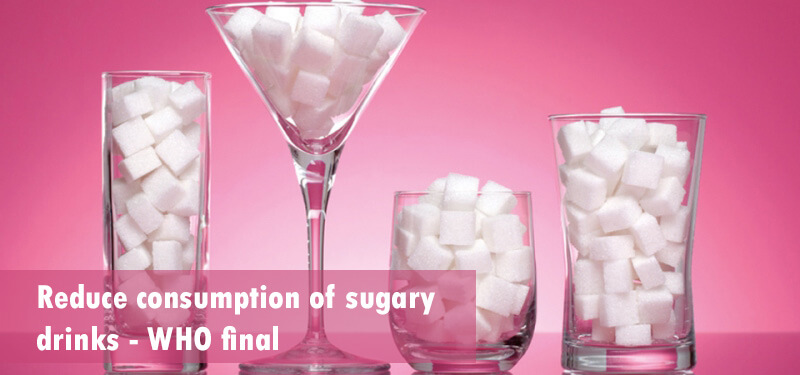
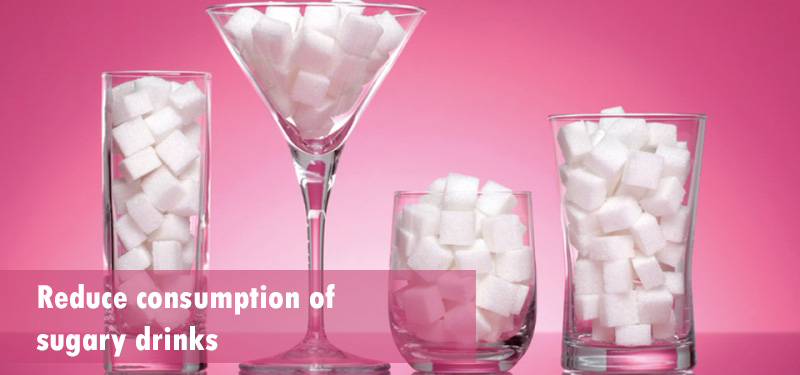
article changes

Changed region(s): [[0.0312, 0.8507, 0.375, 0.968], [0.4062, 0.7627, 0.5625, 0.8507]]

diff --git a/CyberHealth/views/common/healthy-tips.html b/CyberHealth/views/common/healthy-tips.html
@@ -1,1 +1,1 @@
-<div id="content-page" ng-cloak class="ng-cloak"><div class="container"><div class="row blog-page"><div class="col-md-12 col-lg-12 col-sm-12"><h4 class="classic-title"><span>Healthy Tips</span></h4></div><div class="col-md-8 col-lg-8 col-sm-8 blog-box"><div id="1" class="blog-post image-post"><div class="post-head"><img alt="" src="../../images/healthyTips/tips-1.jpg" width="100%" height="auto"></div><div class="post-content1"><div class="post-type"><i class="fa fa-picture-o"></i></div><h2><a href="#healthy-tips-1">Prevalence of Obesity</a></h2><ul class="post-meta remove-style"><li>By <a href="">Cyber Health</a></li><li>February 18, 2016</li></ul><p>Obesity is recognized as a chronic disease and one of the major healthcare challenges facing us today. Obesity is considered to result from an imbalance between energy uptake and energy expenditure.</p><a class="main-button" href="#healthy-tips-1">Read More <i class="fa fa-angle-right"></i></a></div></div><div id="2" class="blog-post image-post"><div class="post-head"><img alt="" src="../../images/healthyTips/tips-2.jpg" width="100%" height="auto"></div><div class="post-content1"><div class="post-type"><i class="fa fa-picture-o"></i></div><h2><a href="#healthy-tips-2">Prevalence of Diabetes in United States</a></h2><ul class="post-meta remove-style"><li>By <a href="">Cyber Health</a></li><li>February 18, 2016</li></ul><p>Diabetes is a group of diseases characterized by high blood sugar. When a person has diabetes, the body either does not make enough insulin or is unable to use its own insulin well.</p><a class="main-button" href="#healthy-tips-2">Read More <i class="fa fa-angle-right"></i></a></div></div><div id="3" class="blog-post image-post"><div class="post-head"><img alt="" src="../../images/healthyTips/tips-3.jpg" width="100%" height="auto"></div><div class="post-content1"><div class="post-type"><i class="fa fa-picture-o"></i></div><h2><a href="#healthy-tips-3">Global report on Diabetes</a></h2><ul class="post-meta remove-style"><li>By <a href="">Cyber Health</a></li><li>February 18, 2016</li></ul><p>Diabetes is a chronic condition in which sugars build up in the blood beyond a normal level. Healthy body uses the hormone insulin to move sugars (“glucose”) into the cells. In diabetes body either cannot produce enough insulin or is resistant to its own insulin, so excess sugars can’t move into the cells and, instead, stay in the blood.</p><a class="main-button" href="#healthy-tips-3">Read More <i class="fa fa-angle-right"></i></a></div></div><div id="4" class="blog-post image-post"><div class="post-head"><img alt="" src="../../images/healthyTips/tips-4.jpg" width="100%" height="auto"></div><div class="post-content1"><div class="post-type"><i class="fa fa-picture-o"></i></div><h2><a href="#healthy-tips-4">Do you know how much sugar is in your favourite drink?</a></h2><ul class="post-meta remove-style"><li>By <a href="">Cyber Health</a></li><li>February 18, 2016</li></ul><p>Sugar is hidden in many of our favourite drinks. A new WHO guideline recommends adults and children reduce their daily intake of free sugars to less than 10% of their total energy intake. A further reduction to below 5% or roughly 25 grams (6 teaspoons) per day would provide additional health benefits (WHO, 2015).</p><a class="main-button" href="#healthy-tips-4">Read More <i class="fa fa-angle-right"></i></a></div></div><div id="5" class="blog-post image-post"><div class="post-head"><img alt="" src="../../images/healthyTips/tips-5.jpg" width="100%" height="auto"></div><div class="post-content1"><div class="post-type"><i class="fa fa-picture-o"></i></div><h2><a href="#healthy-tips-5">Reduce consumption of sugary drinks - WHO final</a></h2><ul class="post-meta remove-style"><li>By <a href="">Cyber Health</a></li><li>February 18, 2016</li></ul><p>Sugar-sweetened beverage consumption is high in many parts of the world and is suggestive of poor dietary quality, as sugar-sweetened beverages contain added sugars such as sucrose or fructose, often in large amounts, which contribute to the overall energy density of diets.</p><a class="main-button" href="#healthy-tips-5">Read More <i class="fa fa-angle-right"></i></a></div></div><div id="6" class="blog-post image-post"><div class="post-head"><img alt="" src="../../images/healthyTips/tips-6.jpg" width="100%" height="auto"></div><div class="post-content1"><div class="post-type"><i class="fa fa-picture-o"></i></div><h2><a href="#healthy-tips-6">Sugar Sweetened Beverages (SSB)</a></h2><ul class="post-meta remove-style"><li>By <a href="">Cyber Health</a></li><li>February 18, 2016</li></ul><p>The obesity epidemic in the United States continues to increase. Two out of three adults and one out of three children in the United States are overweight or obese. Increase in overweight among young children is of significant concern.</p><a class="main-button" href="#healthy-tips-6">Read More <i class="fa fa-angle-right"></i></a></div></div><div id="7" class="blog-post image-post"><div class="post-head"><img alt="" src="../../images/healthyTips/tips-7.jpg" width="100%" height="auto"></div><div class="post-content1"><div class="post-type"><i class="fa fa-picture-o"></i></div><h2><a href="#healthy-tips-7">Don’t Drink Sugary Drinks</a></h2><ul class="post-meta remove-style"><li>By <a href="">Cyber Health</a></li><li>February 18, 2016</li></ul><p>What you drink makes a bigger difference to your health than you think. Drinks like soda, sports drinks and energy drinks are loaded with sugar and are empty calories. Sugary beverages are the single largest source of calories in the American Diet, providing an average of about seven percent of total calories per person (HHS/USDA, 2010).</p><a class="main-button" href="#healthy-tips-7">Read More <i class="fa fa-angle-right"></i></a></div></div><div id="8" class="blog-post image-post"><div class="post-head"><img alt="" src="../../images/healthyTips/tips-8.jpg" width="100%" height="auto"></div><div class="post-content1"><div class="post-type"><i class="fa fa-picture-o"></i></div><h2><a href="#healthy-tips-8">It’s time to tax sugary drinks</a></h2><ul class="post-meta remove-style"><li>By <a href="">Cyber Health</a></li><li>February 18, 2016</li></ul><p>Sugary drinks are a major contributor to the obesity epidemic. Increased consumption of soft drinks is associated with increased energy (calorie) intake. Habitual consumption of sugar sweetened beverages was associated with a greater incidence of type 2 diabetes, independently of adiposity.</p><a class="main-button" href="#healthy-tips-8">Read More <i class="fa fa-angle-right"></i></a></div></div><div id="9" class="blog-post image-post"><div class="post-head"><img alt="" src="../../images/healthyTips/tips-9.jpg" width="100%" height="auto"></div><div class="post-content1"><div class="post-type"><i class="fa fa-picture-o"></i></div><h2><a href="#healthy-tips-9">Dietary Guidelines for healthy Eating</a></h2><ul class="post-meta remove-style"><li>By <a href="">Cyber Health</a></li><li>February 18, 2016</li></ul><p>According to the World Health Organization (WHO), of the 57 million global deaths in 2008, 36 million, or 63%, were due to non-communicable diseases (NCDs), principally cardiovascular diseases, diabetes, cancers and chronic respiratory diseases (WHO, 2011a). Nearly 80% of these deaths occur in low-and middle-income countries.</p><a class="main-button" href="#healthy-tips-9">Read More <i class="fa fa-angle-right"></i></a></div></div><div id="10" class="blog-post image-post"><div class="post-head"><img alt="" src="../../images/healthyTips/tips-10.jpg" width="100%" height="auto"></div><div class="post-content1"><div class="post-type"><i class="fa fa-picture-o"></i></div><h2><a href="#healthy-tips-10">Physical activity</a></h2><ul class="post-meta remove-style"><li>By <a href="">Cyber Health</a></li><li>February 18, 2016</li></ul><p>Physical inactivity is the fourth leading risk factor for noncommunicable disease worldwide and is estimated to cause between 3.2 and 5 million deaths globally per year. Globally, physical inactivity is estimated to cause around 27% of diabetes, 30% of ischaemic heart disease and 21%–25% of breast and colon cancer.</p><a class="main-button" href="#healthy-tips-10">Read More <i class="fa fa-angle-right"></i></a></div></div><div id="11" class="blog-post image-post"><div class="post-head"><img alt="" src="../../images/healthyTips/tips-11.jpg" width="100%" height="auto"></div><div class="post-content1"><div class="post-type"><i class="fa fa-picture-o"></i></div><h2><a href="#healthy-tips-11">Eat more Fruits and Vegetables</a></h2><ul class="post-meta remove-style"><li>By <a href="">Cyber Health</a></li><li>February 18, 2016</li></ul><p>Vegetables and fruits are an important part of a healthy diet. No single fruit or vegetable provides all of the nutrients you need to be healthy. Eat plenty every day. Low intake of fruit and vegetables is estimated to cause about 19% of gastrointestinal cancer, and about 31% of ischaemic heart disease and 11% of stroke worldwide.</p><a class="main-button" href="#healthy-tips-11">Read More <i class="fa fa-angle-right"></i></a></div></div><div id="12" class="blog-post image-post"><div class="post-head"><img alt="" src="../../images/healthyTips/tips-12.jpg" width="100%" height="auto"></div><div class="post-content1"><div class="post-type"><i class="fa fa-picture-o"></i></div><h2><a href="#healthy-tips-12">It’s not too late to prevent diabetes</a></h2><ul class="post-meta remove-style"><li>By <a href="">Cyber Health</a></li><li>February 18, 2016</li></ul><p>Diabetes is one of the 4 main noncommunicable diseases and together with cancer, heart attacks and strokes and lung disease, is responsible for 1.7 million deaths in the Region every year. Diabetes is an independent risk factor for cardiovascular disease. Adults with diabetes have a 2-4 times higher risk for heart disease or stroke.</p><a class="main-button" href="#healthy-tips-12">Read More <i class="fa fa-angle-right"></i></a></div></div><div id="13" class="blog-post image-post"><div class="post-head"><img alt="" src="../../images/healthyTips/tips-13.jpg" width="100%" height="auto"></div><div class="post-content1"><div class="post-type"><i class="fa fa-picture-o"></i></div><h2><a href="#healthy-tips-13">Diabetes in Asia</a></h2><ul class="post-meta remove-style"><li>By <a href="">Cyber Health</a></li><li>February 18, 2016</li></ul><p>There are 415 million people with diabetes in the world. There will be 642 million people with diabetes in 2040 (International Diabetes Federation, 2015). 60% of diabetics in the world live in Asia (Hu , 2011). 113.9 million adults have diabetes in China, 11.6% of the adult population (Xu et al., 2013).</p><a class="main-button" href="#healthy-tips-13">Read More <i class="fa fa-angle-right"></i></a></div></div><div id="14" class="blog-post image-post"><div class="post-head"><img alt="" src="../../images/healthyTips/tips-14.jpg" width="100%" height="auto"></div><div class="post-content1"><div class="post-type"><i class="fa fa-picture-o"></i></div><h2><a href="#healthy-tips-14">Whole Grains</a></h2><ul class="post-meta remove-style"><li>By <a href="">Cyber Health</a></li><li>February 18, 2016</li></ul><p>Whole grains are the entire seed of a plant. This seed (kernel) is made up of three key edible parts – the bran, the germ, and the endosperm. Whole grains contain all three parts of the kernel. Whole grains—brown rice, steel cut oats, and quinoa—are composed of three edible parts, the fiber-filled bran, the vitamin-packed germ, and the starchy endosperm.</p><a class="main-button" href="#healthy-tips-14">Read More <i class="fa fa-angle-right"></i></a></div></div></div><div class="col-md-4 col-lg-4 col-sm-4 sidebar right-sidebar"><div class="widget widget-popular-posts"><h4>Popular Tips <span class="head-line"></span></h4><ul class="remove-style"><li><div class="widget-thumb"><a href="" ng-click="focusToIndividualTips(1)"><img src="../../images/healthyTips/tips-1-small.jpg" alt="" width="65" height="65"></a></div><div class="widget-content"><h5><a href="" ng-click="focusToIndividualTips(1)">Prevalence of Obesity</a></h5><span>Feb 18,2016</span></div><div class="clearfix"></div></li><li><div class="widget-thumb"><a href="" ng-click="focusToIndividualTips(2)"><img src="../../images/healthyTips/tips-2-small.jpg" alt="" width="65" height="65"></a></div><div class="widget-content"><h5><a href="" ng-click="focusToIndividualTips(2)">Prevalence of Diabetes in United States</a></h5><span>Feb 18,2016</span></div><div class="clearfix"></div></li><li><div class="widget-thumb"><a href="" ng-click="focusToIndividualTips(3)"><img src="../../images/healthyTips/tips-3-small.jpg" alt="" width="65" height="65"></a></div><div class="widget-content"><h5><a href="" ng-click="focusToIndividualTips(3)">Global report on Diabetes</a></h5><span>Feb 18,2016</span></div><div class="clearfix"></div></li><li><div class="widget-thumb"><a href="" ng-click="focusToIndividualTips(4)"><img src="../../images/healthyTips/tips-4-small.jpg" alt="" width="65" height="65"></a></div><div class="widget-content"><h5><a href="" ng-click="focusToIndividualTips(4)">Do you know how much sugar is in your favourite drink?</a></h5><span>Feb 18,2016</span></div><div class="clearfix"></div></li><li><div class="widget-thumb"><a href="" ng-click="focusToIndividualTips(5)"><img src="../../images/healthyTips/tips-5-small.jpg" alt="" width="65" height="65"></a></div><div class="widget-content"><h5><a href="" ng-click="focusToIndividualTips(5)">Reduce consumption of sugary drinks - WHO final</a></h5><span>Feb 18,2016</span></div><div class="clearfix"></div></li><li><div class="widget-thumb"><a href="" ng-click="focusToIndividualTips(6)"><img src="../../images/healthyTips/tips-6-small.jpg" alt="" width="65" height="65"></a></div><div class="widget-content"><h5><a href="" ng-click="focusToIndividualTips(6)">Sugar Sweetened Beverages (SSB)</a></h5><span>Feb 18,2016</span></div><div class="clearfix"></div></li><li><div class="widget-thumb"><a href="" ng-click="focusToIndividualTips(7)"><img src="../../images/healthyTips/tips-7-small.jpg" alt="" width="65" height="65"></a></div><div class="widget-content"><h5><a href="" ng-click="focusToIndividualTips(7)">Don’t Drink Sugary Drinks</a></h5><span>Feb 18,2016</span></div><div class="clearfix"></div></li><li><div class="widget-thumb"><a href="" ng-click="focusToIndividualTips(8)"><img src="../../images/healthyTips/tips-8-small.jpg" alt="" width="65" height="65"></a></div><div class="widget-content"><h5><a href="" ng-click="focusToIndividualTips(8)">It’s time to tax sugary drinks</a></h5><span>Feb 18,2016</span></div><div class="clearfix"></div></li><li><div class="widget-thumb"><a href="" ng-click="focusToIndividualTips(9)"><img src="../../images/healthyTips/tips-9-small.jpg" alt="" width="65" height="65"></a></div><div class="widget-content"><h5><a href="" ng-click="focusToIndividualTips(9)">Dietary Guidelines for healthy Eating</a></h5><span>Feb 18,2016</span></div><div class="clearfix"></div></li><li><div class="widget-thumb"><a href="" ng-click="focusToIndividualTips(10)"><img src="../../images/healthyTips/tips-10-small.jpg" alt="" width="65" height="65"></a></div><div class="widget-content"><h5><a href="" ng-click="focusToIndividualTips(10)">Physical activity</a></h5><span>Feb 18,2016</span></div><div class="clearfix"></div></li><li><div class="widget-thumb"><a href="" ng-click="focusToIndividualTips(11)"><img src="../../images/healthyTips/tips-11-small.jpg" alt="" width="65" height="65"></a></div><div class="widget-content"><h5><a href="" ng-click="focusToIndividualTips(11)">Eat more Fruits and Vegetables</a></h5><span>Feb 18,2016</span></div><div class="clearfix"></div></li><li><div class="widget-thumb"><a href="" ng-click="focusToIndividualTips(12)"><img src="../../images/healthyTips/tips-12-small.jpg" alt="" width="65" height="65"></a></div><div class="widget-content"><h5><a href="" ng-click="focusToIndividualTips(12)">It’s not too late to prevent diabetes</a></h5><span>Feb 18,2016</span></div><div class="clearfix"></div></li><li><div class="widget-thumb"><a href="" ng-click="focusToIndividualTips(13)"><img src="../../images/healthyTips/tips-13-small.jpg" alt="" width="65" height="65"></a></div><div class="widget-content"><h5><a href="" ng-click="focusToIndividualTips(13)">Diabetes in Asia</a></h5><span>Feb 18,2016</span></div><div class="clearfix"></div></li><li><div class="widget-thumb"><a href="" ng-click="focusToIndividualTips(14)"><img src="../../images/healthyTips/tips-14-small.jpg" alt="" width="65" height="65"></a></div><div class="widget-content"><h5><a href="" ng-click="focusToIndividualTips(14)">Whole Grains</a></h5><span>Feb 18,2016</span></div><div class="clearfix"></div></li></ul></div></div></div></div></div><script type="text/javascript" src="../../js/script.js"></script>
+<div id="content-page" ng-cloak class="ng-cloak"><div class="container"><div class="row blog-page"><div class="col-md-12 col-lg-12 col-sm-12"><h4 class="classic-title"><span>Healthy Tips</span></h4></div><div class="col-md-8 col-lg-8 col-sm-8 blog-box"><div id="1" class="blog-post image-post"><div class="post-head"><img alt="" src="../../images/healthyTips/tips-1.jpg" width="100%" height="auto"></div><div class="post-content1"><div class="post-type"><i class="fa fa-picture-o"></i></div><h2><a href="#healthy-tips-1">Prevalence of Obesity</a></h2><ul class="post-meta remove-style"><li>By <a href="">Cyber Health</a></li><li>February 18, 2016</li></ul><p>Obesity is recognized as a chronic disease and one of the major healthcare challenges facing us today. Obesity is considered to result from an imbalance between energy uptake and energy expenditure.</p><a class="main-button" href="#healthy-tips-1">Read More <i class="fa fa-angle-right"></i></a></div></div><div id="2" class="blog-post image-post"><div class="post-head"><img alt="" src="../../images/healthyTips/tips-2.jpg" width="100%" height="auto"></div><div class="post-content1"><div class="post-type"><i class="fa fa-picture-o"></i></div><h2><a href="#healthy-tips-2">Prevalence of Diabetes in United States</a></h2><ul class="post-meta remove-style"><li>By <a href="">Cyber Health</a></li><li>February 18, 2016</li></ul><p>Diabetes is a group of diseases characterized by high blood sugar. When a person has diabetes, the body either does not make enough insulin or is unable to use its own insulin well.</p><a class="main-button" href="#healthy-tips-2">Read More <i class="fa fa-angle-right"></i></a></div></div><div id="3" class="blog-post image-post"><div class="post-head"><img alt="" src="../../images/healthyTips/tips-3.jpg" width="100%" height="auto"></div><div class="post-content1"><div class="post-type"><i class="fa fa-picture-o"></i></div><h2><a href="#healthy-tips-3">Global report on Diabetes</a></h2><ul class="post-meta remove-style"><li>By <a href="">Cyber Health</a></li><li>February 18, 2016</li></ul><p>Diabetes is a chronic condition in which sugars build up in the blood beyond a normal level. Healthy body uses the hormone insulin to move sugars (“glucose”) into the cells. In diabetes body either cannot produce enough insulin or is resistant to its own insulin, so excess sugars can’t move into the cells and, instead, stay in the blood.</p><a class="main-button" href="#healthy-tips-3">Read More <i class="fa fa-angle-right"></i></a></div></div><div id="4" class="blog-post image-post"><div class="post-head"><img alt="" src="../../images/healthyTips/tips-4.jpg" width="100%" height="auto"></div><div class="post-content1"><div class="post-type"><i class="fa fa-picture-o"></i></div><h2><a href="#healthy-tips-4">Do you know how much sugar is in your favourite drink?</a></h2><ul class="post-meta remove-style"><li>By <a href="">Cyber Health</a></li><li>February 18, 2016</li></ul><p>Sugar is hidden in many of our favourite drinks. A new WHO guideline recommends adults and children reduce their daily intake of free sugars to less than 10% of their total energy intake. A further reduction to below 5% or roughly 25 grams (6 teaspoons) per day would provide additional health benefits (WHO, 2015).</p><a class="main-button" href="#healthy-tips-4">Read More <i class="fa fa-angle-right"></i></a></div></div><div id="5" class="blog-post image-post"><div class="post-head"><img alt="" src="../../images/healthyTips/tips-5.jpg" width="100%" height="auto"></div><div class="post-content1"><div class="post-type"><i class="fa fa-picture-o"></i></div><h2><a href="#healthy-tips-5">Reduce consumption of sugary drinks</a></h2><ul class="post-meta remove-style"><li>By <a href="">Cyber Health</a></li><li>February 18, 2016</li></ul><p>Sugar-sweetened beverage consumption is high in many parts of the world and is suggestive of poor dietary quality, as sugar-sweetened beverages contain added sugars such as sucrose or fructose, often in large amounts, which contribute to the overall energy density of diets.</p><a class="main-button" href="#healthy-tips-5">Read More <i class="fa fa-angle-right"></i></a></div></div><div id="6" class="blog-post image-post"><div class="post-head"><img alt="" src="../../images/healthyTips/tips-6.jpg" width="100%" height="auto"></div><div class="post-content1"><div class="post-type"><i class="fa fa-picture-o"></i></div><h2><a href="#healthy-tips-6">Sugar Sweetened Beverages (SSB)</a></h2><ul class="post-meta remove-style"><li>By <a href="">Cyber Health</a></li><li>February 18, 2016</li></ul><p>The obesity epidemic in the United States continues to increase. Two out of three adults and one out of three children in the United States are overweight or obese. Increase in overweight among young children is of significant concern.</p><a class="main-button" href="#healthy-tips-6">Read More <i class="fa fa-angle-right"></i></a></div></div><div id="7" class="blog-post image-post"><div class="post-head"><img alt="" src="../../images/healthyTips/tips-7.jpg" width="100%" height="auto"></div><div class="post-content1"><div class="post-type"><i class="fa fa-picture-o"></i></div><h2><a href="#healthy-tips-7">Don’t Drink Sugary Drinks</a></h2><ul class="post-meta remove-style"><li>By <a href="">Cyber Health</a></li><li>February 18, 2016</li></ul><p>What you drink makes a bigger difference to your health than you think. Drinks like soda, sports drinks and energy drinks are loaded with sugar and are empty calories. Sugary beverages are the single largest source of calories in the American Diet, providing an average of about seven percent of total calories per person (HHS/USDA, 2010).</p><a class="main-button" href="#healthy-tips-7">Read More <i class="fa fa-angle-right"></i></a></div></div><div id="8" class="blog-post image-post"><div class="post-head"><img alt="" src="../../images/healthyTips/tips-8.jpg" width="100%" height="auto"></div><div class="post-content1"><div class="post-type"><i class="fa fa-picture-o"></i></div><h2><a href="#healthy-tips-8">It’s time to tax sugary drinks</a></h2><ul class="post-meta remove-style"><li>By <a href="">Cyber Health</a></li><li>February 18, 2016</li></ul><p>Sugary drinks are a major contributor to the obesity epidemic. Increased consumption of soft drinks is associated with increased energy (calorie) intake. Habitual consumption of sugar sweetened beverages was associated with a greater incidence of type 2 diabetes, independently of adiposity.</p><a class="main-button" href="#healthy-tips-8">Read More <i class="fa fa-angle-right"></i></a></div></div><div id="9" class="blog-post image-post"><div class="post-head"><img alt="" src="../../images/healthyTips/tips-9.jpg" width="100%" height="auto"></div><div class="post-content1"><div class="post-type"><i class="fa fa-picture-o"></i></div><h2><a href="#healthy-tips-9">Dietary Guidelines for healthy Eating</a></h2><ul class="post-meta remove-style"><li>By <a href="">Cyber Health</a></li><li>February 18, 2016</li></ul><p>According to the World Health Organization (WHO), of the 57 million global deaths in 2008, 36 million, or 63%, were due to non-communicable diseases (NCDs), principally cardiovascular diseases, diabetes, cancers and chronic respiratory diseases (WHO, 2011a). Nearly 80% of these deaths occur in low-and middle-income countries.</p><a class="main-button" href="#healthy-tips-9">Read More <i class="fa fa-angle-right"></i></a></div></div><div id="10" class="blog-post image-post"><div class="post-head"><img alt="" src="../../images/healthyTips/tips-10.jpg" width="100%" height="auto"></div><div class="post-content1"><div class="post-type"><i class="fa fa-picture-o"></i></div><h2><a href="#healthy-tips-10">Physical activity</a></h2><ul class="post-meta remove-style"><li>By <a href="">Cyber Health</a></li><li>February 18, 2016</li></ul><p>Physical inactivity is the fourth leading risk factor for noncommunicable disease worldwide and is estimated to cause between 3.2 and 5 million deaths globally per year. Globally, physical inactivity is estimated to cause around 27% of diabetes, 30% of ischaemic heart disease and 21%–25% of breast and colon cancer.</p><a class="main-button" href="#healthy-tips-10">Read More <i class="fa fa-angle-right"></i></a></div></div><div id="11" class="blog-post image-post"><div class="post-head"><img alt="" src="../../images/healthyTips/tips-11.jpg" width="100%" height="auto"></div><div class="post-content1"><div class="post-type"><i class="fa fa-picture-o"></i></div><h2><a href="#healthy-tips-11">Eat more Fruits and Vegetables</a></h2><ul class="post-meta remove-style"><li>By <a href="">Cyber Health</a></li><li>February 18, 2016</li></ul><p>Vegetables and fruits are an important part of a healthy diet. No single fruit or vegetable provides all of the nutrients you need to be healthy. Eat plenty every day. Low intake of fruit and vegetables is estimated to cause about 19% of gastrointestinal cancer, and about 31% of ischaemic heart disease and 11% of stroke worldwide.</p><a class="main-button" href="#healthy-tips-11">Read More <i class="fa fa-angle-right"></i></a></div></div><div id="12" class="blog-post image-post"><div class="post-head"><img alt="" src="../../images/healthyTips/tips-12.jpg" width="100%" height="auto"></div><div class="post-content1"><div class="post-type"><i class="fa fa-picture-o"></i></div><h2><a href="#healthy-tips-12">It’s not too late to prevent diabetes</a></h2><ul class="post-meta remove-style"><li>By <a href="">Cyber Health</a></li><li>February 18, 2016</li></ul><p>Diabetes is one of the 4 main noncommunicable diseases and together with cancer, heart attacks and strokes and lung disease, is responsible for 1.7 million deaths in the Region every year. Diabetes is an independent risk factor for cardiovascular disease. Adults with diabetes have a 2-4 times higher risk for heart disease or stroke.</p><a class="main-button" href="#healthy-tips-12">Read More <i class="fa fa-angle-right"></i></a></div></div><div id="13" class="blog-post image-post"><div class="post-head"><img alt="" src="../../images/healthyTips/tips-13.jpg" width="100%" height="auto"></div><div class="post-content1"><div class="post-type"><i class="fa fa-picture-o"></i></div><h2><a href="#healthy-tips-13">Diabetes in Asia</a></h2><ul class="post-meta remove-style"><li>By <a href="">Cyber Health</a></li><li>February 18, 2016</li></ul><p>There are 415 million people with diabetes in the world. There will be 642 million people with diabetes in 2040 (International Diabetes Federation, 2015). 60% of diabetics in the world live in Asia (Hu , 2011). 113.9 million adults have diabetes in China, 11.6% of the adult population (Xu et al., 2013).</p><a class="main-button" href="#healthy-tips-13">Read More <i class="fa fa-angle-right"></i></a></div></div><div id="14" class="blog-post image-post"><div class="post-head"><img alt="" src="../../images/healthyTips/tips-14.jpg" width="100%" height="auto"></div><div class="post-content1"><div class="post-type"><i class="fa fa-picture-o"></i></div><h2><a href="#healthy-tips-14">Whole Grains</a></h2><ul class="post-meta remove-style"><li>By <a href="">Cyber Health</a></li><li>February 18, 2016</li></ul><p>Whole grains are the entire seed of a plant. This seed (kernel) is made up of three key edible parts – the bran, the germ, and the endosperm. Whole grains contain all three parts of the kernel. Whole grains—brown rice, steel cut oats, and quinoa—are composed of three edible parts, the fiber-filled bran, the vitamin-packed germ, and the starchy endosperm.</p><a class="main-button" href="#healthy-tips-14">Read More <i class="fa fa-angle-right"></i></a></div></div></div><div class="col-md-4 col-lg-4 col-sm-4 sidebar right-sidebar"><div class="widget widget-popular-posts"><h4>Popular Tips <span class="head-line"></span></h4><ul class="remove-style"><li><div class="widget-thumb"><a href="" ng-click="focusToIndividualTips(1)"><img src="../../images/healthyTips/tips-1-small.jpg" alt="" width="65" height="65"></a></div><div class="widget-content"><h5><a href="" ng-click="focusToIndividualTips(1)">Prevalence of Obesity</a></h5><span>Feb 18,2016</span></div><div class="clearfix"></div></li><li><div class="widget-thumb"><a href="" ng-click="focusToIndividualTips(2)"><img src="../../images/healthyTips/tips-2-small.jpg" alt="" width="65" height="65"></a></div><div class="widget-content"><h5><a href="" ng-click="focusToIndividualTips(2)">Prevalence of Diabetes in United States</a></h5><span>Feb 18,2016</span></div><div class="clearfix"></div></li><li><div class="widget-thumb"><a href="" ng-click="focusToIndividualTips(3)"><img src="../../images/healthyTips/tips-3-small.jpg" alt="" width="65" height="65"></a></div><div class="widget-content"><h5><a href="" ng-click="focusToIndividualTips(3)">Global report on Diabetes</a></h5><span>Feb 18,2016</span></div><div class="clearfix"></div></li><li><div class="widget-thumb"><a href="" ng-click="focusToIndividualTips(4)"><img src="../../images/healthyTips/tips-4-small.jpg" alt="" width="65" height="65"></a></div><div class="widget-content"><h5><a href="" ng-click="focusToIndividualTips(4)">Do you know how much sugar is in your favourite drink?</a></h5><span>Feb 18,2016</span></div><div class="clearfix"></div></li><li><div class="widget-thumb"><a href="" ng-click="focusToIndividualTips(5)"><img src="../../images/healthyTips/tips-5-small.jpg" alt="" width="65" height="65"></a></div><div class="widget-content"><h5><a href="" ng-click="focusToIndividualTips(5)">Reduce consumption of sugary drinks</a></h5><span>Feb 18,2016</span></div><div class="clearfix"></div></li><li><div class="widget-thumb"><a href="" ng-click="focusToIndividualTips(6)"><img src="../../images/healthyTips/tips-6-small.jpg" alt="" width="65" height="65"></a></div><div class="widget-content"><h5><a href="" ng-click="focusToIndividualTips(6)">Sugar Sweetened Beverages (SSB)</a></h5><span>Feb 18,2016</span></div><div class="clearfix"></div></li><li><div class="widget-thumb"><a href="" ng-click="focusToIndividualTips(7)"><img src="../../images/healthyTips/tips-7-small.jpg" alt="" width="65" height="65"></a></div><div class="widget-content"><h5><a href="" ng-click="focusToIndividualTips(7)">Don’t Drink Sugary Drinks</a></h5><span>Feb 18,2016</span></div><div class="clearfix"></div></li><li><div class="widget-thumb"><a href="" ng-click="focusToIndividualTips(8)"><img src="../../images/healthyTips/tips-8-small.jpg" alt="" width="65" height="65"></a></div><div class="widget-content"><h5><a href="" ng-click="focusToIndividualTips(8)">It’s time to tax sugary drinks</a></h5><span>Feb 18,2016</span></div><div class="clearfix"></div></li><li><div class="widget-thumb"><a href="" ng-click="focusToIndividualTips(9)"><img src="../../images/healthyTips/tips-9-small.jpg" alt="" width="65" height="65"></a></div><div class="widget-content"><h5><a href="" ng-click="focusToIndividualTips(9)">Dietary Guidelines for healthy Eating</a></h5><span>Feb 18,2016</span></div><div class="clearfix"></div></li><li><div class="widget-thumb"><a href="" ng-click="focusToIndividualTips(10)"><img src="../../images/healthyTips/tips-10-small.jpg" alt="" width="65" height="65"></a></div><div class="widget-content"><h5><a href="" ng-click="focusToIndividualTips(10)">Physical activity</a></h5><span>Feb 18,2016</span></div><div class="clearfix"></div></li><li><div class="widget-thumb"><a href="" ng-click="focusToIndividualTips(11)"><img src="../../images/healthyTips/tips-11-small.jpg" alt="" width="65" height="65"></a></div><div class="widget-content"><h5><a href="" ng-click="focusToIndividualTips(11)">Eat more Fruits and Vegetables</a></h5><span>Feb 18,2016</span></div><div class="clearfix"></div></li><li><div class="widget-thumb"><a href="" ng-click="focusToIndividualTips(12)"><img src="../../images/healthyTips/tips-12-small.jpg" alt="" width="65" height="65"></a></div><div class="widget-content"><h5><a href="" ng-click="focusToIndividualTips(12)">It’s not too late to prevent diabetes</a></h5><span>Feb 18,2016</span></div><div class="clearfix"></div></li><li><div class="widget-thumb"><a href="" ng-click="focusToIndividualTips(13)"><img src="../../images/healthyTips/tips-13-small.jpg" alt="" width="65" height="65"></a></div><div class="widget-content"><h5><a href="" ng-click="focusToIndividualTips(13)">Diabetes in Asia</a></h5><span>Feb 18,2016</span></div><div class="clearfix"></div></li><li><div class="widget-thumb"><a href="" ng-click="focusToIndividualTips(14)"><img src="../../images/healthyTips/tips-14-small.jpg" alt="" width="65" height="65"></a></div><div class="widget-content"><h5><a href="" ng-click="focusToIndividualTips(14)">Whole Grains</a></h5><span>Feb 18,2016</span></div><div class="clearfix"></div></li></ul></div></div></div></div></div><script type="text/javascript" src="../../js/script.js"></script>

diff --git a/views/common/healthy-tips.html b/views/common/healthy-tips.html
@@ -99,7 +99,7 @@
                     <!-- Post Content -->
                     <div class="post-content1">
                         <div class="post-type"><i class="fa fa-picture-o"></i></div>
-                        <h2><a href="#healthy-tips-5">Reduce consumption of sugary drinks - WHO final</a></h2>
+                        <h2><a href="#healthy-tips-5">Reduce consumption of sugary drinks</a></h2>
                         <ul class="post-meta remove-style">
                             <li>By <a href="">Cyber Health</a></li>
                             <li>February 18, 2016</li>
@@ -374,7 +374,7 @@
                                 <a href="" ng-click="focusToIndividualTips(5)"><img src="../../images/healthyTips/tips-5-small.jpg" alt=""  width="65" height="65"/></a>
                             </div>
                             <div class="widget-content">
-                                <h5><a href="" ng-click="focusToIndividualTips(5)">Reduce consumption of sugary drinks - WHO final</a></h5>
+                                <h5><a href="" ng-click="focusToIndividualTips(5)">Reduce consumption of sugary drinks</a></h5>
                                 <span>Feb 18,2016</span>
                             </div>
                             <div class="clearfix"></div>
